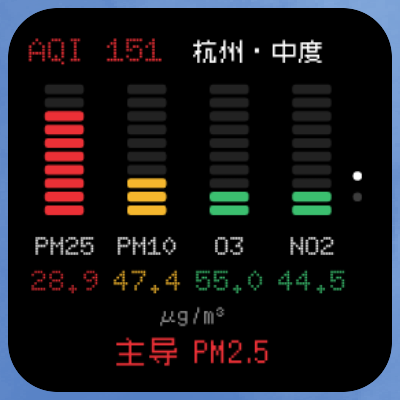
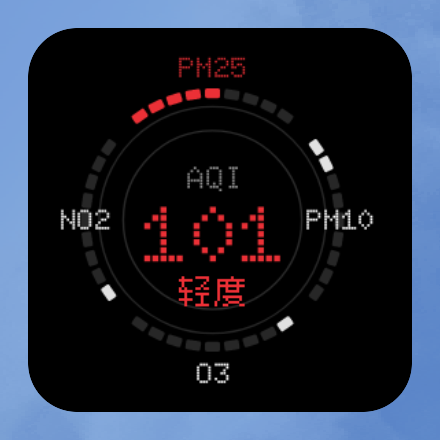
feat: refine air ring and redesign details

diff --git a/src/com/unimend/airradar/AirActivity.java b/src/com/unimend/airradar/AirActivity.java
@@ -4,7 +4,11 @@ import android.app.*;
 import android.appwidget.AppWidgetManager;
 import android.os.*;
 import android.graphics.Color;
+import android.graphics.Typeface;
+import android.graphics.drawable.GradientDrawable;
 import android.content.*;
+import android.view.Gravity;
+import android.view.View;
 import android.widget.*;
 import java.util.concurrent.*;
 import java.util.Locale;
@@ -14,23 +18,47 @@ import org.json.*;
 
 public class AirActivity extends Activity {
     private final ExecutorService io=Executors.newSingleThreadExecutor(); private final Handler handler=new Handler(Looper.getMainLooper());
-    private TextView details; private ImageView preview; private EditText city; private Button search; private AirStore store; private int widgetId;
+    private TextView statusValue,statusMeta,updated; private final TextView[] metricValues=new TextView[4];
+    private ImageView preview; private EditText city; private TextView search; private AirStore store; private int widgetId; private Typeface doto,zpix;
     private final BroadcastReceiver updates=new BroadcastReceiver(){@Override public void onReceive(Context c,Intent i){show();}};
     @Override public void onCreate(Bundle state) {
         super.onCreate(state); widgetId=getIntent().getIntExtra(AppWidgetManager.EXTRA_APPWIDGET_ID,0); store=new AirStore(this,widgetId);
+        AirWidget.schedule(this,true);
+        doto=Typeface.createFromAsset(getAssets(),"doto.ttf"); zpix=Typeface.createFromAsset(getAssets(),"zpix.ttf");
         getWindow().setStatusBarColor(Color.BLACK); getWindow().setNavigationBarColor(Color.BLACK);
-        LinearLayout body=new LinearLayout(this); body.setOrientation(LinearLayout.VERTICAL); body.setPadding(dp(24),dp(20),dp(24),dp(28)); body.setBackgroundColor(Color.BLACK);
+        LinearLayout body=new LinearLayout(this); body.setOrientation(LinearLayout.VERTICAL); body.setPadding(dp(20),dp(18),dp(20),dp(36)); body.setBackgroundColor(Color.BLACK);
         ScrollView scroll=new ScrollView(this); scroll.addView(body); setContentView(scroll);
-        TextView title=new TextView(this); title.setText(widgetId>0?"空气质量雷达 · 当前组件":"空气质量雷达"); title.setTextSize(27); title.setTextColor(Color.WHITE); body.addView(title);
-        preview=new ImageView(this); preview.setScaleType(ImageView.ScaleType.FIT_CENTER); body.addView(preview,new LinearLayout.LayoutParams(-1,dp(240))); preview.setOnClickListener(v->{store.toggle(0);show();});
-        details=new TextView(this); details.setTextSize(16); details.setTextColor(Color.LTGRAY); details.setLineSpacing(dp(5),1); body.addView(details);
-        Button refresh=new Button(this); refresh.setText("刷新空气数据"); body.addView(refresh); refresh.setOnClickListener(v->refresh());
-        city=new EditText(this); city.setSingleLine(true); city.setTextColor(Color.WHITE); city.setHintTextColor(Color.GRAY); city.setHint("搜索城市，例如 杭州 / Shanghai"); body.addView(city);
-        search=new Button(this); search.setText("搜索并选择城市"); body.addView(search); search.setOnClickListener(v->search());
-        Button hangzhou=new Button(this); hangzhou.setText("选择杭州"); body.addView(hangzhou); hangzhou.setOnClickListener(v->choose("杭州",30.2741,120.1551));
-        TextView source=new TextView(this); source.setTextSize(13); source.setTextColor(Color.GRAY); source.setText("数据：Open-Meteo Air Quality / CAMS 模型\nUS AQI 使用美国标准，并非中国官方 AQI。MODEL 表示模型估算，不冒充地面监测站实测。\n约30分钟后台刷新；右侧点击切换雷达与24小时趋势。\n\nhttps://open-meteo.com/en/docs/air-quality-api"); android.text.util.Linkify.addLinks(source,android.text.util.Linkify.WEB_URLS); source.setMovementMethod(android.text.method.LinkMovementMethod.getInstance()); body.addView(source);
+        TextView eyebrow=label("NOTHING / AIR",14,Color.rgb(235,48,54),doto); eyebrow.setLetterSpacing(.13f); body.addView(eyebrow);
+        TextView title=label(widgetId>0?"空气质量雷达 · 当前组件":"空气质量雷达",29,Color.WHITE,zpix); add(body,title,-1,-2,0,dp(4),0,dp(4));
+        TextView intro=label("一眼读取此刻的空气状态",15,Color.rgb(135,135,135),Typeface.DEFAULT); add(body,intro,-1,-2,0,0,0,dp(18));
+
+        LinearLayout previewCard=card(); previewCard.setPadding(dp(8),dp(8),dp(8),dp(8));
+        preview=new ImageView(this); preview.setScaleType(ImageView.ScaleType.FIT_CENTER); previewCard.addView(preview,new LinearLayout.LayoutParams(-1,dp(250))); add(body,previewCard,-1,-2,0,0,0,dp(14));
+        preview.setOnClickListener(v->{store.toggle(0);show();});
+
+        LinearLayout statusCard=card(); statusCard.setPadding(dp(18),dp(16),dp(18),dp(18));
+        TextView statusLabel=label("CURRENT AIR",13,Color.rgb(130,130,130),doto); statusLabel.setLetterSpacing(.1f); statusCard.addView(statusLabel);
+        statusValue=label("AQI --",43,Color.WHITE,doto); add(statusCard,statusValue,-1,-2,0,dp(5),0,0);
+        statusMeta=label("选择城市",18,Color.WHITE,zpix); add(statusCard,statusMeta,-1,-2,0,dp(2),0,dp(15));
+        GridLayout grid=new GridLayout(this); grid.setColumnCount(2); String[] names={"PM2.5","PM10","O₃","NO₂"};
+        for(int i=0;i<4;i++){ LinearLayout cell=new LinearLayout(this); cell.setOrientation(LinearLayout.VERTICAL); cell.setPadding(i%2==0?0:dp(12),dp(9),dp(8),dp(9)); TextView n=label(names[i],13,Color.rgb(125,125,125),doto); metricValues[i]=label("--",23,Color.WHITE,doto); cell.addView(n); cell.addView(metricValues[i]); GridLayout.LayoutParams gp=new GridLayout.LayoutParams(); gp.width=0; gp.columnSpec=GridLayout.spec(i%2,1f); gp.rowSpec=GridLayout.spec(i/2); grid.addView(cell,gp); }
+        statusCard.addView(grid,new LinearLayout.LayoutParams(-1,-2)); updated=label("等待首次更新",13,Color.rgb(125,125,125),Typeface.DEFAULT); add(statusCard,updated,-1,-2,0,dp(7),0,0); add(body,statusCard,-1,-2,0,0,0,dp(14));
+
+        TextView refresh=action("刷新空气数据",true); body.addView(refresh); refresh.setOnClickListener(v->refresh());
+        TextView locationTitle=label("LOCATION",14,Color.rgb(150,150,150),doto); locationTitle.setLetterSpacing(.1f); add(body,locationTitle,-1,-2,0,dp(24),0,dp(9));
+        city=new EditText(this); city.setSingleLine(true); city.setTextSize(16); city.setTextColor(Color.WHITE); city.setHintTextColor(Color.rgb(105,105,105)); city.setHint("搜索城市，例如 杭州 / Shanghai"); city.setPadding(dp(16),0,dp(16),0); city.setBackground(panel(Color.rgb(15,15,15),Color.rgb(55,55,55),12)); add(body,city,-1,dp(54),0,0,0,dp(9));
+        search=action("搜索并选择城市",false); body.addView(search); search.setOnClickListener(v->search());
+        TextView hangzhou=action("快速选择杭州",false); add(body,hangzhou,-1,dp(52),0,dp(9),0,0); hangzhou.setOnClickListener(v->choose("杭州",30.2741,120.1551));
+
+        TextView sourceTitle=label("DATA / MODEL",14,Color.rgb(150,150,150),doto); sourceTitle.setLetterSpacing(.1f); add(body,sourceTitle,-1,-2,0,dp(26),0,dp(8));
+        TextView source=label("Open-Meteo Air Quality · CAMS\nUS AQI 为模型估算，并非中国官方地面监测值。系统约每30分钟自动刷新；省电或断网时可能延后。\n\nopen-meteo.com/en/docs/air-quality-api",13,Color.rgb(120,120,120),Typeface.DEFAULT); source.setLineSpacing(dp(4),1); android.text.util.Linkify.addLinks(source,android.text.util.Linkify.WEB_URLS); source.setMovementMethod(android.text.method.LinkMovementMethod.getInstance()); body.addView(source);
     }
     private int dp(float n){return Math.round(n*getResources().getDisplayMetrics().density);}
+    private TextView label(String value,float size,int color,Typeface face){TextView v=new TextView(this);v.setText(value);v.setTextSize(size);v.setTextColor(color);v.setTypeface(face);v.setIncludeFontPadding(false);return v;}
+    private GradientDrawable panel(int fill,int stroke,float radius){GradientDrawable g=new GradientDrawable();g.setColor(fill);g.setCornerRadius(dp(radius));g.setStroke(dp(1),stroke);return g;}
+    private LinearLayout card(){LinearLayout v=new LinearLayout(this);v.setOrientation(LinearLayout.VERTICAL);v.setBackground(panel(Color.rgb(9,9,9),Color.rgb(40,40,40),16));return v;}
+    private TextView action(String value,boolean accent){TextView v=label(value,16,accent?Color.WHITE:Color.rgb(225,225,225),accent?doto:Typeface.DEFAULT_BOLD);v.setGravity(Gravity.CENTER);v.setMinHeight(dp(52));v.setBackground(panel(accent?Color.rgb(205,37,45):Color.rgb(17,17,17),accent?Color.rgb(235,48,54):Color.rgb(55,55,55),12));v.setClickable(true);return v;}
+    private void add(LinearLayout parent,View child,int w,int h,int l,int t,int r,int b){LinearLayout.LayoutParams p=new LinearLayout.LayoutParams(w,h);p.setMargins(l,t,r,b);parent.addView(child,p);}
     private void choose(String name,double lat,double lon){store.city(name,lat,lon);store.loading(false);if(widgetId>0)AirWidget.draw(this,widgetId,false);else AirWidget.publish(this);show();Toast.makeText(this,"已为当前组件选择"+name,Toast.LENGTH_SHORT).show();refresh();}
     private void refresh(){
         if(!store.configured()){Toast.makeText(this,"请先选择城市",Toast.LENGTH_SHORT).show();return;} store.loading(true); show(); if(widgetId>0)AirWidget.draw(this,widgetId,false);
@@ -42,10 +70,12 @@ public class AirActivity extends Activity {
     }
     private void show(){
         preview.setImageBitmap(AirRenderer.render(this,store,store.page(0),Math.min(1000,dp(240)),false,-1)); JSONObject d=store.data();
-        if(!store.configured()){details.setText("先选择城市，再将1×1“空气质量雷达”放到桌面。每个组件实例可设置不同城市。");return;}
-        if(!d.has("aqi")){details.setText(store.city()+"\n"+(store.hasError()?"请求失败，请联网后刷新":"等待空气质量数据…"));return;}
+        if(!store.configured()){statusValue.setText("AQI --");statusMeta.setText("请选择城市");updated.setText("每个桌面组件可设置不同城市");for(TextView v:metricValues)v.setText("--");return;}
+        if(!d.has("aqi")){statusValue.setText("AQI --");statusMeta.setText(store.city()+" · "+(store.hasError()?"更新失败":"等待数据"));updated.setText(store.loading()?"正在连接空气模型…":"点击刷新后重试");for(TextView v:metricValues)v.setText("--");return;}
         SimpleDateFormat f=new SimpleDateFormat("MM-dd HH:mm",Locale.US);
-        details.setText(String.format(Locale.US,"%s · US AQI %.0f · %s\n主导污染物 %s\nPM2.5 %.1f · PM10 %.1f μg/m³\nO₃ %.1f · NO₂ %.1f · SO₂ %.1f μg/m³\n沙尘 %.1f μg/m³ · 草花粉 %.1f grains/m³\n模型数据时间 %s%s",store.city(),d.optDouble("aqi"),AirSource.level(d.optDouble("aqi")),AirSource.dominant(d),d.optDouble("pm25"),d.optDouble("pm10"),d.optDouble("o3"),d.optDouble("no2"),d.optDouble("so2"),d.optDouble("dust"),d.optDouble("pollen"),f.format(new Date(d.optLong("observed"))),store.stale(d)?"\n缓存已过期或刷新失败":""));
+        double aqi=d.optDouble("aqi"); statusValue.setText("AQI "+Math.round(aqi)); statusValue.setTextColor(aqi>100?Color.rgb(235,48,54):Color.WHITE); statusMeta.setText(store.city()+" · "+AirSource.level(aqi)+" · 主导 "+AirSource.dominant(d));
+        double[] values={d.optDouble("pm25"),d.optDouble("pm10"),d.optDouble("o3"),d.optDouble("no2")};for(int i=0;i<4;i++)metricValues[i].setText(String.format(Locale.US,"%.1f μg/m³",values[i]));
+        updated.setText((store.stale(d)?"数据可能已过期 · ":"模型更新时间 · ")+f.format(new Date(d.optLong("observed"))));
     }
     @Override protected void onResume(){super.onResume();registerReceiver(updates,new IntentFilter("com.unimend.airradar.UPDATED"));show();}
     @Override protected void onPause(){unregisterReceiver(updates);super.onPause();}

diff --git a/src/com/unimend/airradar/AirRenderer.java b/src/com/unimend/airradar/AirRenderer.java
@@ -14,37 +14,37 @@ final class AirRenderer {
     private void text(String v,float x,float y,float size,int color,Typeface face) { paint.setTypeface(face); paint.setTextSize(size); paint.setColor(color); paint.setStyle(Paint.Style.FILL); paint.setStrokeWidth(1); Rect r=new Rect(); paint.getTextBounds(v,0,v.length(),r); canvas.drawText(v,x-(r.left+r.right)/2f,y-(r.top+r.bottom)/2f,paint); }
     private void draw(AirStore s,int page,boolean feedback,int frame) {
         JSONObject d=s.data(); boolean valid=d.has("aqi");
-        if(!s.configured()) { radar(new JSONObject(),-1,"AIR",WHITE); text("点击选择城市",246,476,30,GREY,zpix); pages(page,feedback); return; }
-        if(!valid) { radar(new JSONObject(),frame,"--",WHITE); text(s.city()+" · "+(s.loading()?"更新中":s.hasError()?"重试":"等待"),246,476,30,s.hasError()?RED:WHITE,zpix); pages(page,feedback); return; }
+        if(!s.configured()) { radar(new JSONObject(),-1,"AIR",WHITE); text("点击选择城市",246,476,30,GREY,zpix); return; }
+        if(!valid) { radar(new JSONObject(),frame,"--",WHITE); text(s.city()+" · "+(s.loading()?"更新中":s.hasError()?"重试":"等待"),246,476,30,s.hasError()?RED:WHITE,zpix); return; }
         if(page==0) home(s,d,frame); else forecast(s,d,frame);
-        pages(page,feedback);
     }
     private void home(AirStore s,JSONObject d,int frame) {
-        double aqi=d.optDouble("aqi"); int color=aqi<=50?Color.rgb(59,191,111):aqi<=100?AMBER:RED;
-        text("AQI "+(int)Math.round(aqi),116,58,44,color,doto);
-        text(s.city()+" · "+AirSource.level(aqi),332,58,32,WHITE,zpix);
-        bars(d,frame);
-        text("主导 "+AirSource.dominant(d),246,458,40,RED,zpix);
+        double aqi=d.optDouble("aqi"); int color=s.stale(d)?GREY:aqi>100?RED:WHITE;
+        segmentedRing(d,frame);
+        text("AQI",246,202,42,GREY,doto);
+        text(Integer.toString((int)Math.round(aqi)),246,274,108,color,doto);
+        text(AirSource.level(aqi),246,351,44,color,zpix);
     }
-    private void bars(JSONObject d,int frame) {
-        String[] labels={"PM25","PM10","O3","NO2"};
-        String[] raw={"pm25","pm10","o3","no2"};
-        String[] indices={"pm25i","pm10i","o3i","no2i"};
-        float[] centers={75,185,295,405}; float top=102,bottom=276,barWidth=52,gap=5; int segments=10; float segment=(bottom-top-gap*(segments-1))/segments;
+    private void segmentedRing(JSONObject d,int frame) {
+        String[] labels={"PM25","PM10","O3","NO2"}; String[] raw={"pm25","pm10","o3","no2"}; String[] indices={"pm25i","pm10i","o3i","no2i"};
+        // Side labels share the same 48-unit safe boundary after glyph-width correction.
+        float[][] anchors={{246,52},{416,256},{246,460},{76,256}};
+        float cx=246,cy=256,r=169; int ticks=9; String dominant=AirSource.dominant(d);
+        paint.setStyle(Paint.Style.STROKE); paint.setStrokeWidth(2.5f); paint.setColor(Color.rgb(40,40,40)); canvas.drawCircle(cx,cy,r-18,paint);
         for(int i=0;i<4;i++) {
-            double index=d.optDouble(indices[i]); int filled=(int)Math.ceil(Math.min(200,index)/200.0*segments);
+            double index=d.optDouble(indices[i]); int filled=(int)Math.ceil(Math.min(200,index)/200.0*ticks);
             if(frame>=0) filled=Math.min(filled,(int)Math.ceil(filled*(frame+1)/8.0));
-            int color=index<=50?Color.rgb(59,191,111):index<=100?AMBER:RED;
-            for(int row=0;row<segments;row++) {
-                float y=bottom-(row+1)*segment-row*gap;
-                paint.setStyle(Paint.Style.FILL); paint.setColor(row<filled?color:Color.rgb(34,34,34));
-                canvas.drawRoundRect(centers[i]-barWidth/2,y,centers[i]+barWidth/2,y+segment,4,4,paint);
+            boolean primary=(i==0&&"PM2.5".equals(dominant))||(i==1&&"PM10".equals(dominant))||(i==2&&"O₃".equals(dominant))||(i==3&&"NO₂".equals(dominant));
+            int color=primary?RED:Color.rgb(225,225,225); double sectorStart=-125+i*90;
+            for(int n=0;n<ticks;n++) {
+                double degrees=sectorStart+n*(70.0/(ticks-1)); double a=Math.toRadians(degrees); float x=cx+(float)Math.cos(a)*r,y=cy+(float)Math.sin(a)*r;
+                canvas.save(); canvas.rotate((float)degrees+90,x,y); paint.setStyle(Paint.Style.FILL); paint.setColor(n<filled?color:Color.rgb(39,39,39));
+                canvas.drawRoundRect(x-10,y-6.5f,x+10,y+6.5f,2.5f,2.5f,paint); canvas.restore();
             }
-            text(labels[i],centers[i],318,34,WHITE,doto);
-            double value=d.optDouble(raw[i]); String shown=value<100?String.format(Locale.US,"%.1f",value):String.format(Locale.US,"%.0f",value);
-            text(shown,centers[i],366,38,color,doto);
+            text(labels[i],anchors[i][0],anchors[i][1],38,primary?RED:WHITE,doto);
         }
-        text("μg/m³",246,411,29,GREY,zpix);
+        paint.setStyle(Paint.Style.FILL); paint.setColor(Color.BLACK); canvas.drawCircle(cx,cy,119,paint);
+        paint.setStyle(Paint.Style.STROKE); paint.setStrokeWidth(2.5f); paint.setColor(Color.rgb(43,43,43)); canvas.drawCircle(cx,cy,119,paint);
     }
     private void radar(JSONObject d,int frame,String center,int centerColor) {
         float cx=246,cy=242,r=140; paint.setStyle(Paint.Style.STROKE); paint.setStrokeWidth(3.5f);
@@ -76,6 +76,5 @@ final class AirRenderer {
         text("主导 "+AirSource.dominant(d),246,459,40,s.stale(d)?AMBER:RED,zpix);
     }
     private void circleDots(float cx,float cy,float r,int count) { paint.setStyle(Paint.Style.FILL); for(int i=0;i<count;i++){double a=i*Math.PI*2/count;canvas.drawCircle(cx+(float)Math.cos(a)*r,cy+(float)Math.sin(a)*r,3.1f,paint);} }
-    private void pages(int page,boolean feedback) { for(int i=0;i<2;i++){paint.setColor(i==page?(feedback?RED:WHITE):Color.rgb(60,60,60));canvas.drawCircle(466,224+i*28,6,paint);} }
     private String time(long ms) { if(ms<=0)return "--:--"; SimpleDateFormat f=new SimpleDateFormat("HH:mm",Locale.US); return f.format(new Date(ms)); }
 }

diff --git a/src/com/unimend/airradar/AirWidget.java b/src/com/unimend/airradar/AirWidget.java
@@ -1,6 +1,7 @@
 package com.unimend.airradar;
 
 import android.app.PendingIntent;
+import android.app.AlarmManager;
 import android.app.job.*;
 import android.appwidget.*;
 import android.content.*;
@@ -12,6 +13,8 @@ import android.widget.RemoteViews;
 public class AirWidget extends AppWidgetProvider {
     static final String TOGGLE="com.unimend.airradar.TOGGLE", REFRESH="com.unimend.airradar.REFRESH";
     static final int PERIODIC=701, ONCE=702;
+    static final int ALARM_REQUEST=703;
+    static final long REFRESH_INTERVAL=30*60*1000L;
     private static final android.util.SparseIntArray animations=new android.util.SparseIntArray();
     static int[] ids(Context c) { return AppWidgetManager.getInstance(c).getAppWidgetIds(new ComponentName(c,AirWidget.class)); }
     static void publish(Context c) { for(int id:ids(c)) draw(c,id,false); }
@@ -54,11 +57,13 @@ public class AirWidget extends AppWidgetProvider {
     static void publishAnimated(Context c) { for(int id:ids(c)) animate(c,id); }
     static void schedule(Context c,boolean immediate) {
         JobScheduler jobs=(JobScheduler)c.getSystemService(Context.JOB_SCHEDULER_SERVICE);
-        if(ids(c).length==0) { jobs.cancel(PERIODIC); }
+        if(ids(c).length==0) { jobs.cancel(PERIODIC); cancelAlarm(c); }
         else if(jobs.getPendingJob(PERIODIC)==null) {
             jobs.schedule(new JobInfo.Builder(PERIODIC,new ComponentName(c,AirJob.class))
-                .setPeriodic(30*60*1000L,5*60*1000L).setPersisted(true).build());
+                .setRequiredNetworkType(JobInfo.NETWORK_TYPE_ANY)
+                .setPeriodic(REFRESH_INTERVAL,5*60*1000L).setPersisted(true).build());
         }
+        if(ids(c).length>0) scheduleAlarm(c);
         boolean configured=false; for(int id:ids(c)) if(new AirStore(c,id).configured()) configured=true;
         if(immediate && configured) {
             jobs.schedule(new JobInfo.Builder(ONCE,new ComponentName(c,AirJob.class))
@@ -70,6 +75,19 @@ public class AirWidget extends AppWidgetProvider {
     @Override public void onDeleted(Context c,int[] ids) { for(int id:ids) new AirStore(c,id).delete(); }
     @Override public void onDisabled(Context c) {
         JobScheduler j=(JobScheduler)c.getSystemService(Context.JOB_SCHEDULER_SERVICE); j.cancel(PERIODIC); j.cancel(ONCE);
+        cancelAlarm(c);
+    }
+    private static PendingIntent alarmIntent(Context c) {
+        Intent refresh=new Intent(c,AirWidget.class).setAction(REFRESH);
+        return PendingIntent.getBroadcast(c,ALARM_REQUEST,refresh,PendingIntent.FLAG_IMMUTABLE|PendingIntent.FLAG_UPDATE_CURRENT);
+    }
+    private static void scheduleAlarm(Context c) {
+        AlarmManager alarm=(AlarmManager)c.getSystemService(Context.ALARM_SERVICE);
+        long first=System.currentTimeMillis()+REFRESH_INTERVAL;
+        alarm.setInexactRepeating(AlarmManager.RTC_WAKEUP,first,REFRESH_INTERVAL,alarmIntent(c));
+    }
+    private static void cancelAlarm(Context c) {
+        ((AlarmManager)c.getSystemService(Context.ALARM_SERVICE)).cancel(alarmIntent(c));
     }
     @Override public void onReceive(Context c,Intent intent) {
         super.onReceive(c,intent); String action=intent.getAction();

diff --git a/PROJECT_NOTES.md b/PROJECT_NOTES.md
@@ -18,3 +18,30 @@
 - 第二页不再堆叠18–20逻辑像素的坐标、模型尾注和图表刻度。曲线区扩大为382×216并加粗至6，24H/FORECAST、三个时间刻度、峰值行和主导污染物均建立更大的字号层级；删除非关键小字。
 - 雷达适合表达形状和主导方向，但不便读取每项具体浓度。首页改为 PM25 / PM10 / O3 / NO2 四根10段点阵柱：柱高按各污染物专项 US AQI 统一到0–200风险尺度，柱下显示原始 μg/m³；禁止直接用不同污染物原始浓度决定柱高，否则量纲与量级会误导比较。刷新动画只逐段点亮到真实高度。
 - 柱形首页首次真机显示仍偏小。顶部 AQI/城市、污染物标签、浓度、单位和主导项分别提高到44/32、34、38、29和40逻辑像素；柱区底部从300上移到276并稍微加宽，为标签、数值、单位和主导项建立四条互不重叠的大字号信息行。
+
+## 2026-10-26 - 四轨边框与自动刷新加固
+
+- 四根竖向柱在 1×1 卡片中过于厚重且像普通统计图，首页改为上下两组横向十二段刻度轨。四项污染物各自保留名称、真实浓度、风险色和专项 US AQI 填充比例，中央信息层只放 AQI、城市等级、主导污染物与数据新鲜度。
+- 首页在主导污染物行显示 `刚刚 / 12分钟前 / 2小时前`，让用户能够判断后台任务是否实际执行，而不是只能凭数值变化猜测；刷新时间不得另占一行挤压底部刻度。
+- 自动刷新由单一 `JobScheduler` 改为双保险：30分钟联网周期任务负责正式抓取，`AlarmManager.setInexactRepeating` 负责在厂商系统推迟或丢失周期调度时重新触发一次即时联网任务。两者均为低频、非精确调度，不维持常驻服务。
+- 周期任务明确声明需要网络；无组件时同时取消 Job 与 Alarm，避免无意义唤醒。
+- 真机 `dumpsys jobscheduler` 验证旧版已无任何注册任务，而桌面组件实例仍存在，证实并非数据碰巧不变。根因是 `updatePeriodMillis=0` 后没有系统级周期入口兜底。新版恢复 Android 官方允许的最短30分钟组件更新周期，并在设置页启动时主动修复调度；版本提升到 1.1.0（versionCode 2），确保升级路径会触发恢复逻辑。
+
+## 2026-10-26 - 四段合一空气环
+
+- 上下两组横向刻度虽然更轻，但仍像缩小的数据表，缺少一眼可识别的组件轮廓。首页进一步改为单一大圆环，四种污染物各占70度、段间保留20度呼吸区。
+- 每段使用9个沿圆周旋转的方形刻度，点亮数量仍按该污染物专项 US AQI 的0–200风险尺度计算；四角显示污染物名称与真实浓度，避免圆环只表达风险而失去可读数据。
+- 圆心以黑色核心隔离外圈信息，中央仅保留大号 AQI、城市等级、主导污染物和刷新新鲜度。刷新动画逐步充满四段，不持续占用 CPU。
+
+## 2026-10-26 - 单一读数仪表
+
+- 第一版圆环仍同时显示四个浓度、城市、等级、主导项、刷新时间和分页点，在1×1真机尺寸中只能依赖小字，视觉密度过高。
+- 首页收敛为单一任务：一眼读取 AQI。仅保留四段圆环、四个34逻辑像素污染物标签、108逻辑像素 AQI 数字与44逻辑像素等级；具体浓度、城市、主导项和数据时间保留在应用详情页。
+- 色彩统一为黑、白、深灰、红。主导污染物段和标签使用红色，其他有效段使用白色，未点亮刻度使用深灰；删除同时出现红黄绿的交通灯式配色。
+- 删除首页分页圆点。右侧热区仍可切换24小时趋势，但控制提示不再侵入主体构图。
+
+## 2026-10-26 - 安全边距与详情页统一
+
+- 依据视觉规范“角标文字距最近卡片边缘至少12dp、左右成对对称”，将左右标签中心从不对称的48/443逻辑坐标改为76/416；两者以画布中心246为轴对称，并为38逻辑像素字号保留约48逻辑像素的实际字形安全边界。
+- App 详情页从系统默认按钮堆叠重构为同系列仪表页：黑色背景、深灰描边卡片、Nothing 红主操作、Doto 英文数字、Zpix 中文标题。信息分为组件预览、当前空气、四项浓度、位置选择和数据说明五层。
+- 详情页不再使用一整段密集数据文本。AQI 成为43sp主读数，城市/等级/主导项形成状态行，四种浓度使用2×2网格，模型时间独立置底；所有操作区最小高度52dp，满足48dp触摸规范。

diff --git a/README.md b/README.md
@@ -1,13 +1,17 @@
 # 空气质量雷达
 
-Nothing 点阵风格的原生 Android 1×1 桌面组件。首页以四根点阵柱显示 PM2.5、PM10、O₃ 与 NO₂：柱高使用各污染物专项 US AQI，柱下数字显示真实浓度；第二页显示未来24小时 US AQI 模型趋势、峰值时段与主导污染物。
+Nothing 点阵风格的原生 Android 1×1 桌面组件。首页以一个四段式空气环显示 PM2.5、PM10、O₃ 与 NO₂：每段点亮数量使用对应污染物的专项 US AQI，主导污染物使用 Nothing 红强调；圆心只保留大号 AQI 与空气等级。第二页显示未来24小时 US AQI 模型趋势、峰值时段与主导污染物。
 
 ![空气质量雷达组件实机截图](screenshots/widget.png)
+
+![空气质量雷达详情页](screenshots/app.png)
 
 - 数据：Open-Meteo Air Quality API / CAMS 模型，无 API Token。
 - 明确显示 `US AQI · MODEL`，不将模型结果冒充中国官方 AQI 或地面监测站实测。
 - 每个组件实例独立保存城市、缓存和页码。
-- 刷新与切页播放约1.5秒雷达扫描，静止后停止高频更新。
+- Android 官方组件周期、联网周期任务与轻量闹钟组成约30分钟自动刷新兜底；省电模式下可能由系统延后。
+- 刷新与切页播放约1.5秒分段充能或趋势扫描，静止后停止高频更新。
+- 详情页提供大号 AQI、四项真实浓度、模型时间、城市搜索和手动刷新。
 - Doto 用于英文和数字，Zpix 用于中文；纯黑底、14dp 圆角及 3×5 对齐遵循本工作区组件规范。
 
 ## 构建
@@ -17,6 +21,6 @@ sh build.sh
 adb install -r build/air-radar.apk
 ```
 
-安装后打开“空气质量雷达”选择城市，再手动添加1×1组件。主体点击打开设置，右侧48dp热区切换雷达页和24小时趋势页。
+安装后打开“空气质量雷达”选择城市，再手动添加1×1组件。主体点击打开详情页，右侧48dp热区切换空气环和24小时趋势页。
 
 权限仅包含联网、网络状态和开机恢复任务。数据来源：https://open-meteo.com/en/docs/air-quality-api

diff --git a/DESIGN_SPEC.md b/DESIGN_SPEC.md
@@ -60,6 +60,7 @@
 - 同一语义角色必须使用同一字号：多个状态词统一按最长文本确定字号，不允许因字符数不同在状态切换时忽大忽小。标题、状态字和角标属于不同角色，可以建立清晰的字号层级。
 - 顶部标题区与大型背景状态区必须分层；两组文字的实际 glyph 边界之间至少保留 `12dp` 视觉间隔，不以基线差值代替可见间距。
 - 角标文字到最近卡片边缘至少保留 `12dp`，并同时检查上边缘、侧边缘和圆角切线；不能只满足单一方向的 margin。
+- 圆形仪表的左右标签必须以仪表几何中心成对镜像，中心坐标满足 `left + right = 2 × centerX`；安全边距按左右两侧最长文字的实际 glyph bounds 分别校正，不得以字符数或 TextView 宽度代替。字号变化后必须重新测量，禁止沿用旧中心坐标。
 - 图表线条、参考虚线不能穿过价格标签；最高价使用独立顶部标签区，曲线末端价格有纯色遮罩并按参考线位置避让。
 - 边缘动态指示器默认位于卡片边缘到首个正文 glyph 间隔的 `30%–50%` 区域；强调“边缘仪表”时优先取约 `35%`，但不能贴住文字或侵入圆角裁切区。
 
